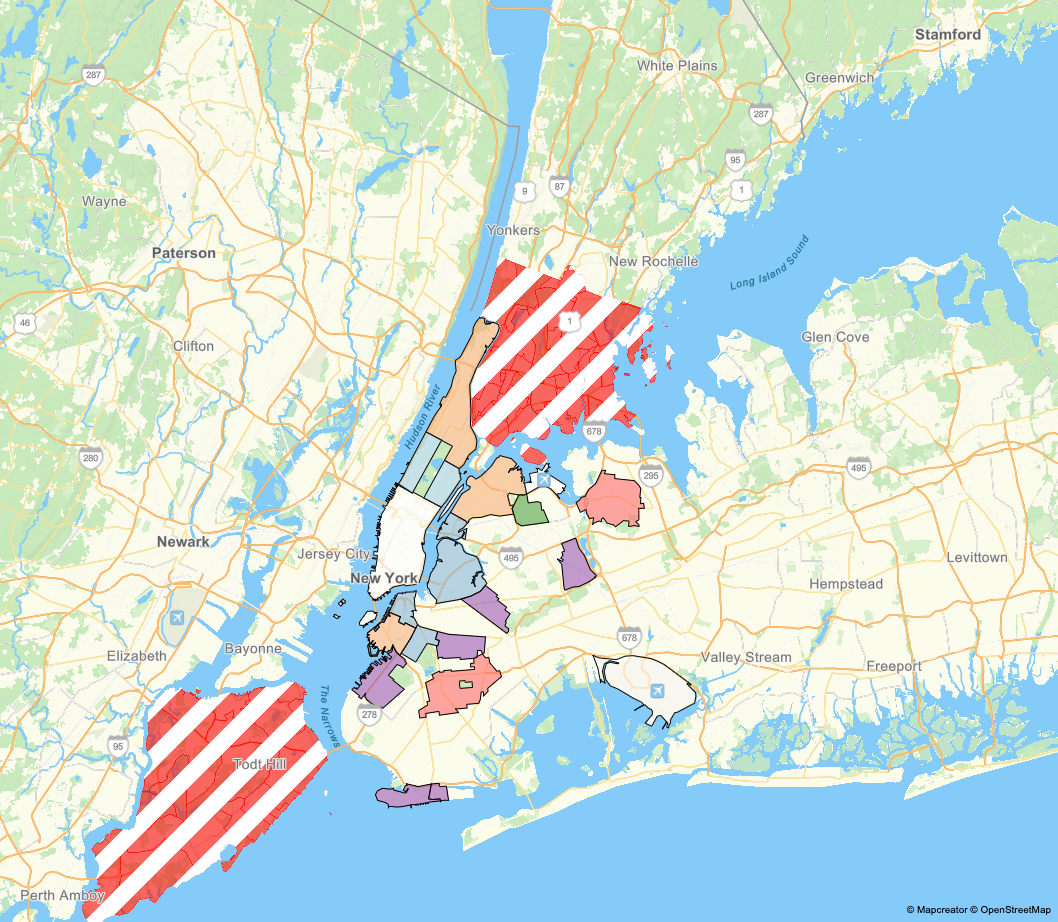
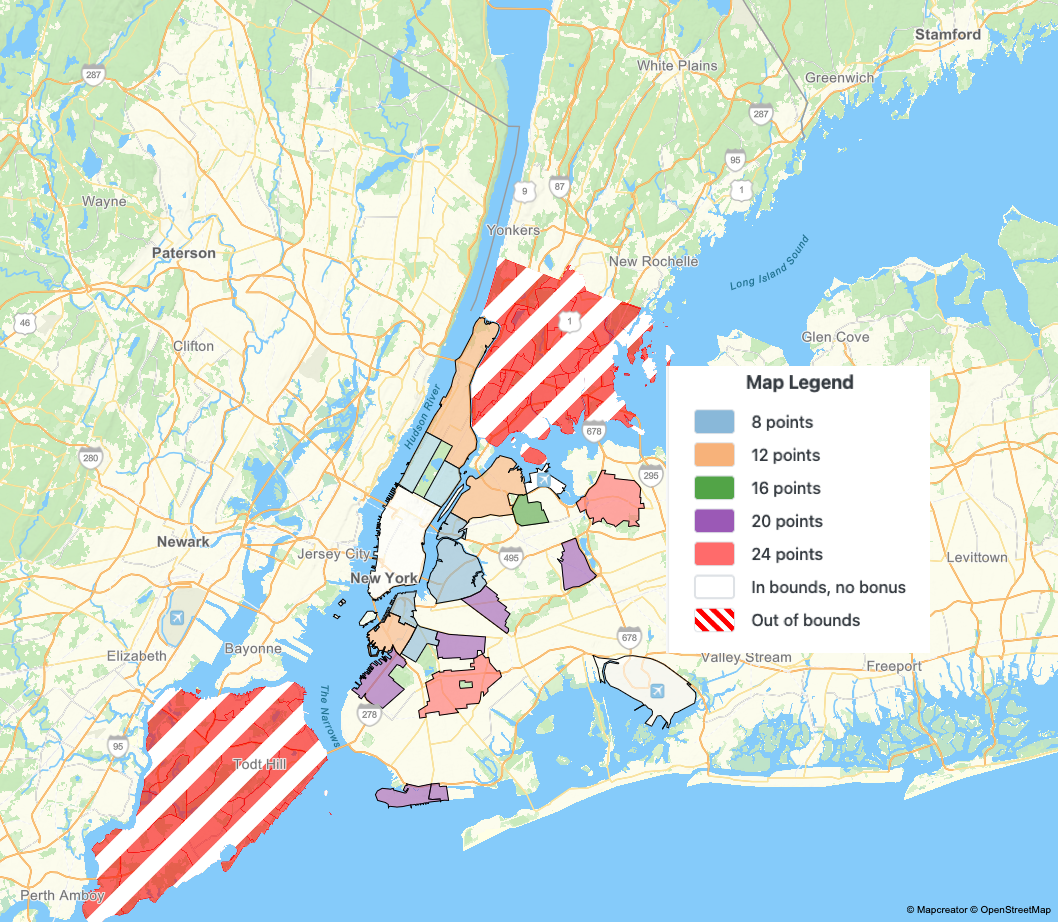
Update neighborhoods page

Changed region(s): [[0.6238, 0.3948, 0.9045, 0.6985]]

diff --git a/pages/neighborhoods.html b/pages/neighborhoods.html
@@ -49,137 +49,109 @@
                     <p class="scoring-description">Complete at least one challenge in a neighborhood below to score
                         bonus points!</p>
 
-                    <div class="legend-and-table-container">
-                        <div class="map-legend">
-                            <h4>Map Legend</h4>
-                            <div class="legend-items">
-                                <div class="legend-item">
-                                    <span class="legend-color" style="background-color: #89B8D9;"></span>
-                                    <span class="legend-label">8 points</span>
-                                </div>
-                                <div class="legend-item">
-                                    <span class="legend-color" style="background-color: #F7B27A;"></span>
-                                    <span class="legend-label">12 points</span>
-                                </div>
-                                <div class="legend-item">
-                                    <span class="legend-color" style="background-color: #52A447;"></span>
-                                    <span class="legend-label">16 points</span>
-                                </div>
-                                <div class="legend-item">
-                                    <span class="legend-color" style="background-color: #9B59B6;"></span>
-                                    <span class="legend-label">20 points</span>
-                                </div>
-                                <div class="legend-item">
-                                    <span class="legend-color" style="background-color: #FF6B6B;"></span>
-                                    <span class="legend-label">24 points</span>
-                                </div>
-                                <div class="legend-item">
-                                    <span class="legend-color legend-white"></span>
-                                    <span class="legend-label">In bounds, no bonus</span>
-                                </div>
-                                <div class="legend-item">
-                                    <span class="legend-color legend-candy-cane"></span>
-                                    <span class="legend-label">Out of bounds</span>
-                                </div>
-                            </div>
-                        </div>
 
-                        <div class="neighborhoods-table">
-                            <h4>Neighborhood Bonus Points</h4>
-                            <table>
-                                <thead>
-                                    <tr>
-                                        <th>Borough</th>
-                                        <th>Neighborhood</th>
-                                        <th>Points</th>
-                                    </tr>
-                                </thead>
-                                <tbody>
-                                    <tr>
-                                        <td rowspan="4" class="borough-cell">Manhattan</td>
-                                        <td>Below Central Park</td>
-                                        <td>No bonus</td>
-                                    </tr>
-                                    <tr>
-                                        <td>UWS</td>
-                                        <td>8</td>
-                                    </tr>
-                                    <tr>
-                                        <td>UES</td>
-                                        <td>8</td>
-                                    </tr>
-                                    <tr>
-                                        <td>North of Central Park</td>
-                                        <td>12</td>
-                                    </tr>
-                                    <tr>
-                                        <td rowspan="5" class="borough-cell">Queens</td>
-                                        <td>LIC/Hunters Point</td>
-                                        <td>8</td>
-                                    </tr>
-                                    <tr>
-                                        <td>Astoria</td>
-                                        <td>12</td>
-                                    </tr>
-                                    <tr>
-                                        <td>Jackson Heights</td>
-                                        <td>16</td>
-                                    </tr>
-                                    <tr>
-                                        <td>Flushing</td>
-                                        <td>24</td>
-                                    </tr>
-                                    <tr>
-                                        <td>Forest Hills</td>
-                                        <td>20</td>
-                                    </tr>
-                                    <tr>
-                                        <td rowspan="11" class="borough-cell">Brooklyn</td>
-                                        <td>Dumbo</td>
-                                        <td>8</td>
-                                    </tr>
-                                    <tr>
-                                        <td>Williamsburg / Greenpoint</td>
-                                        <td>8</td>
-                                    </tr>
-                                    <tr>
-                                        <td>Gowanus</td>
-                                        <td>8</td>
-                                    </tr>
-                                    <tr>
-                                        <td>Park Slope</td>
-                                        <td>8</td>
-                                    </tr>
-                                    <tr>
-                                        <td>Sunset Park</td>
-                                        <td>20</td>
-                                    </tr>
-                                    <tr>
-                                        <td>Red Hook</td>
-                                        <td>12</td>
-                                    </tr>
-                                    <tr>
-                                        <td>Coney Island</td>
-                                        <td>20</td>
-                                    </tr>
-                                    <tr>
-                                        <td>Crown Heights</td>
-                                        <td>20</td>
-                                    </tr>
-                                    <tr>
-                                        <td>Bushwick</td>
-                                        <td>20</td>
-                                    </tr>
-                                    <tr>
-                                        <td>Flatbush</td>
-                                        <td>24</td>
-                                    </tr>
-                                    <tr>
-                                        <td>Brighton Beach</td>
-                                        <td>20</td>
-                                    </tr>
-                                </tbody>
-                            </table>
+                    <div class="neighborhoods-table">
+                        <h4>Neighborhood Bonus Points</h4>
+                        <div class="borough-dropdown">
+                            <details>
+                                <summary>Manhattan</summary>
+                                <ul class="neighborhood-list">
+                                    <li>
+                                        <span class="neighborhood-name">Below Central Park</span>
+                                        <span class="points">No bonus</span>
+                                    </li>
+                                    <li>
+                                        <span class="neighborhood-name">UWS</span>
+                                        <span class="points">8 pts</span>
+                                    </li>
+                                    <li>
+                                        <span class="neighborhood-name">UES</span>
+                                        <span class="points">8 pts</span>
+                                    </li>
+                                    <li>
+                                        <span class="neighborhood-name">North of Central Park</span>
+                                        <span class="points">12 pts</span>
+                                    </li>
+                                </ul>
+                            </details>
+                        </div>
+                        <div class="borough-dropdown">
+                            <details>
+                                <summary>Queens</summary>
+                                <ul class="neighborhood-list">
+                                    <li>
+                                        <span class="neighborhood-name">LIC/Hunters Point</span>
+                                        <span class="points">8 pts</span>
+                                    </li>
+                                    <li>
+                                        <span class="neighborhood-name">Astoria</span>
+                                        <span class="points">12 pts</span>
+                                    </li>
+                                    <li>
+                                        <span class="neighborhood-name">Jackson Heights</span>
+                                        <span class="points">16 pts</span>
+                                    </li>
+                                    <li>
+                                        <span class="neighborhood-name">Flushing</span>
+                                        <span class="points">24 pts</span>
+                                    </li>
+                                    <li>
+                                        <span class="neighborhood-name">Forest Hills</span>
+                                        <span class="points">20 pts</span>
+                                    </li>
+                                </ul>
+                            </details>
+                        </div>
+                        <div class="borough-dropdown">
+                            <details>
+                                <summary>Brooklyn</summary>
+                                <ul class="neighborhood-list">
+                                    <li>
+                                        <span class="neighborhood-name">Dumbo</span>
+                                        <span class="points">8 pts</span>
+                                    </li>
+                                    <li>
+                                        <span class="neighborhood-name">Williamsburg / Greenpoint</span>
+                                        <span class="points">8 pts</span>
+                                    </li>
+                                    <li>
+                                        <span class="neighborhood-name">Gowanus</span>
+                                        <span class="points">8 pts</span>
+                                    </li>
+                                    <li>
+                                        <span class="neighborhood-name">Park Slope</span>
+                                        <span class="points">8 pts</span>
+                                    </li>
+                                    <li>
+                                        <span class="neighborhood-name">Sunset Park</span>
+                                        <span class="points">20 pts</span>
+                                    </li>
+                                    <li>
+                                        <span class="neighborhood-name">Red Hook</span>
+                                        <span class="points">12 pts</span>
+                                    </li>
+                                    <li>
+                                        <span class="neighborhood-name">Coney Island</span>
+                                        <span class="points">20 pts</span>
+                                    </li>
+                                    <li>
+                                        <span class="neighborhood-name">Crown Heights</span>
+                                        <span class="points">20 pts</span>
+                                    </li>
+                                    <li>
+                                        <span class="neighborhood-name">Bushwick</span>
+                                        <span class="points">20 pts</span>
+                                    </li>
+                                    <li>
+                                        <span class="neighborhood-name">Flatbush</span>
+                                        <span class="points">24 pts</span>
+                                    </li>
+                                    <li>
+                                        <span class="neighborhood-name">Brighton Beach</span>
+                                        <span class="points">20 pts</span>
+                                    </li>
+                                </ul>
+                            </details>
                         </div>
                     </div>
 

diff --git a/css/neighborhoods.css b/css/neighborhoods.css
@@ -203,45 +203,83 @@
     text-align: center;
 }
 
-.neighborhoods-table table {
-    width: 100%;
-    border-collapse: collapse;
+/* Borough dropdown styles */
+.borough-dropdown {
+    margin-bottom: var(--spacing-md);
+    border: 1px solid #dee2e6;
+    border-radius: var(--border-radius);
+    overflow: hidden;
 }
 
-.neighborhoods-table th {
+.borough-dropdown details {
+    background-color: var(--white);
+}
+
+.borough-dropdown summary {
     background-color: var(--primary-color);
     color: var(--white);
-    padding: var(--spacing-sm) var(--spacing-md);
-    text-align: left;
+    padding: var(--spacing-md);
+    font-size: var(--font-size-lg);
     font-weight: 600;
-    font-size: var(--font-size-base);
+    cursor: pointer;
+    user-select: none;
+    transition: var(--transition);
+    list-style: none;
+    display: flex;
+    align-items: center;
+    justify-content: space-between;
 }
 
-.neighborhoods-table td {
+.borough-dropdown summary::-webkit-details-marker {
+    display: none;
+}
+
+.borough-dropdown summary::after {
+    content: '▼';
+    font-size: var(--font-size-sm);
+    transition: transform 0.3s ease;
+}
+
+.borough-dropdown details[open] summary::after {
+    transform: rotate(180deg);
+}
+
+.borough-dropdown summary:hover {
+    background-color: var(--primary-dark);
+}
+
+.neighborhood-list {
+    list-style: none;
+    padding: 0;
+    margin: 0;
+}
+
+.neighborhood-list li {
+    display: flex;
+    justify-content: space-between;
+    align-items: center;
     padding: var(--spacing-sm) var(--spacing-md);
     border-bottom: 1px solid #dee2e6;
-    font-size: var(--font-size-base);
+    transition: var(--transition);
 }
 
-.neighborhoods-table tbody tr:last-child td {
+.neighborhood-list li:last-child {
     border-bottom: none;
 }
 
-.neighborhoods-table tbody tr:hover {
+.neighborhood-list li:hover {
     background-color: var(--light-color);
 }
 
-.borough-cell {
-    font-weight: 600;
-    background-color: var(--light-color);
-    vertical-align: top;
-    border-right: 2px solid #dee2e6;
+.neighborhood-list .neighborhood-name {
+    font-size: var(--font-size-base);
+    color: var(--dark-color);
 }
 
-.neighborhoods-table td:last-child {
-    text-align: center;
+.neighborhood-list .points {
     font-weight: 600;
     color: var(--primary-color);
+    font-size: var(--font-size-base);
 }
 
 /* Neighborhoods section */
